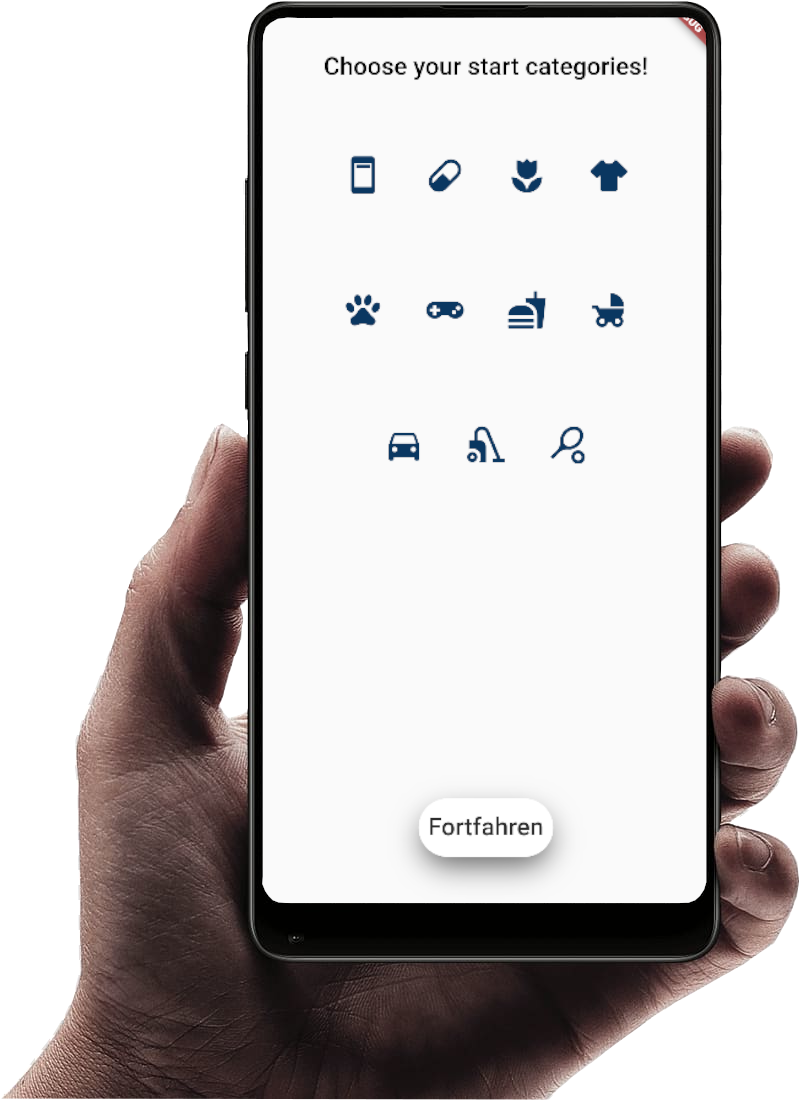
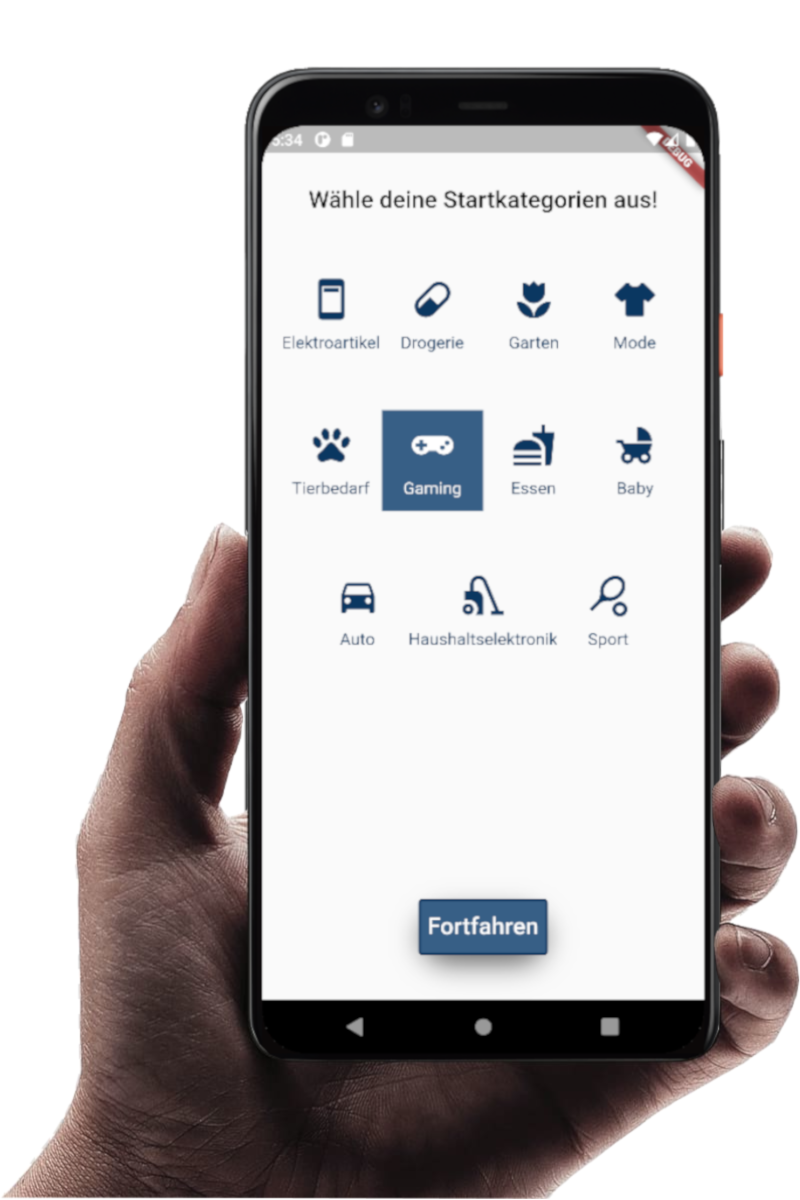
text added

diff --git a/content/ws21/bachelor/B5-penny-pincher/features.md b/content/ws21/bachelor/B5-penny-pincher/features.md
@@ -3,23 +3,81 @@ title = "Features"
 weight = 1
 +++
 
-
-## Welcome Screen
-{{<image src="WelcomeT.png" alt="Mockup" >}}
-## Live Feed
-{{<image src="LiveT.png" alt="Mockup" >}}
-## Browser Page
-{{<image src="BrowserT.png" alt="Mockup" >}}
-## Categories 
-{{<image src="filterT.png" alt="Mockup" >}}
-## Extended View
-{{<image src="ExtendedT.png" alt="Mockup" >}}
-## Favorites
-{{<image src="FavoritenT.png" alt="Mockup" >}}
-## Search
-{{<image src="SearchT.png" alt="Mockup" >}}
-## Settings
-{{<image src="SettingsT.png" alt="Mockup" >}}
+{{<section title="Welcome Screen">}}
+<img src="/ws21/bachelor/b5-penny-pincher/welcome.png" width="350px" style="float:left;padding:0 20px 20px 0">
+<br>
+<p style="font-size:18px;">
+With our App you will find the <b>best</b> bargains!
+To not be overwhelmed with all of our bargains, you can choose your <b>favorite starting categories</b> on our Welcome Screen when you open the app for the <b>first</b> time.
+After that you will be sent to the Live Feed.
+</p>
+{{</section>}}
 
 
+
+{{<section title="Live Feed">}}
+<img src="/ws21/bachelor/b5-penny-pincher/LiveFeed.png" width="350px" style="float:right;padding:0 20px 20px 0">
+<br>
+<p style="font-size:18px;">
+The Live Feed is the <b>main feature</b> of this app. Here you can choose one or more of the eleven main categories you're interested in and see "live" <b>the newest bargains</b> for these products. Our idea behind this page was to help people who are <b>searching for presents</b> and aren't sure exactly what they want. Or maybe you're just want to hunt bargains!
+if you know what you're looking for, you can switch to the Categories page.
+</p>
+{{</section>}}
+
+{{<section title="Categories">}}
+<img src="/ws21/bachelor/b5-penny-pincher/browser.png" width="350px" style="float:left;padding:0 20px 20px 0">
+<br>
+<p style="font-size:18px;">
+Are you still searching a birthay present? Then this is the right place for you!
+In the Categories you can <b>choose from all the categories and subcategories</b> that our App has to offer!
+This is especially helpful, when you know exactly what you're looking for.
+Once you find the perfect item, you <b>can buy it or add it to Favorites</b>!
+</p>
+{{</section>}}
+
+{{<section title="Filter">}}
+<img src="/ws21/bachelor/b5-penny-pincher/filter.png" width="350px" style="float:right;padding:0 20px 20px 0">
+<br>
+<p style="font-size:18px;">
+In the Categories you can set the <b>minimum</b> and <b>maximum price</b>, as well as the <b>minimum amount of discount</b> for your search.
+You can choose different categories and subcategories and you will be able to see <b>how many products</b> there are for your search in the bottom right corner, where you apply your filter.
+And if you wish, you can also <b>save your searches</b> in the bottom left corner for later use.
+</p>
+{{</section>}}
+
+{{<section title="Extended View">}}
+<img src="/ws21/bachelor/b5-penny-pincher/extended.png" width="350px" style="float:left;padding:0 20px 20px 0">
+<br>
+<p style="font-size:18px;">
+In the Extended View you can see <b>some details for the product</b> as well as <b>add them</b> to Favorites. When you click on "Zum Angebot" you will be <b>sent to the idealo</b> website. There you will see <b>all details</b> and <b>sellers</b> for this bargain.
+</p>
+{{</section>}}
+
+{{<section title="Favorites">}}
+<img src="/ws21/bachelor/b5-penny-pincher/Favoriten.png" width="350px" style="float:right;padding:0 20px 20px 0">
+<br>
+<p style="font-size:18px;">
+You can <b>save products</b> in Favorites, if you wish to check them out later.
+You can open the Extended View to see <b>more details</b> for the product, <b>remove products</b> from Favorites as well as <b>search through your Favorites</b> in case you are looking for a specific product!
+Some bargains have a time limit and Favorites are going to refresh themselves automatically, so <b>some products might disappear after a while</b>.
+</p>
+{{</section>}}
+
+{{<section title="Search bar">}}
+<img src="/ws21/bachelor/b5-penny-pincher/Search.png" width="350px" style="float:left;padding:0 20px 20px 0">
+<br>
+<p style="font-size:18px;">
+Once you have <b>chosen a category</b>, you can use the search bar to <b>find items</b> you're interested in, or search for specific keywords.. Your <b>latest search</b> will be <b>saved</b> for an easier access later on.
+It can be accessed from the Favorites and the Categories.
+The search bar in Favorites allows you to look <b>through your saved items</b> in case you have a lot of products there.
+</p>
+{{</section>}}
+
+{{<section title="Settings">}}
+<img src="/ws21/bachelor/b5-penny-pincher/settings.png" width="350px" style="float:right;padding:0 20px 20px 0">
+<br>
+<p style="font-size:18px;">
+In the setting screen you can switch <b>dark mode</b> on/off and even after restarting the app, the option that you choose will be saved. You can also <b>delete your search history</b> from the Search bar. In about us you can see the team members of this project and in help you can find answers to some <b>frequently asked questions</b>!
+</p>
+{{</section>}}
 

diff --git a/content/ws21/bachelor/B5-penny-pincher/tech-stack.md b/content/ws21/bachelor/B5-penny-pincher/tech-stack.md
@@ -6,12 +6,12 @@ weight = 3
 {{<section title="Tech Stack Com">}}
 
 #### Discord
-Discord: Discord was our main way of communicating with each other, asking questions and it served as our remote working space. We used voice channels to split into teams and work on different tasks and text channels to inform each other of new pull requests and general info around the project.
+Discord was our main way of communicating with each other, asking questions and it served as our remote working space. We used voice channels to split into teams and work on different tasks and text channels to inform each other of new pull requests and general info around the project.
 
 
 #### Miro
 We used Miro as a means of sharing our ideas, prototypes, discussing new tasks and updating our progress on the app, basically a place for us to brainstorm during our meetings.
-{{<image src="TechStackComTranparent.png" alt="tech stack part 1" caption="communication tech stack">}}
+
 {{</section>}}
 
 
@@ -25,8 +25,6 @@ Everyone chose an IDE that they were comfortable with, as they all offer integra
 #### GitHub
 GitHub is where we stored all tasks, issues and organized them in different sections: Backlog, To Do, and Done. Most of us dug deep for the first time in Git and we had difficulties concerning commiting, merging, branches, etc. however due to our dilligence we were able to pull through and learned how to organize a git project.
 
-
-{{<image src="TechStackDevTransparent.png" alt="tech stack part 2" caption="development tech stack">}}
 
 {{</section>}}
 

diff --git a/content/ws21/bachelor/B5-penny-pincher/_index.md b/content/ws21/bachelor/B5-penny-pincher/_index.md
@@ -17,11 +17,8 @@ supervisor = "Tino Nitze"
 
 {{<image src="overview.png" alt="Overview" >}}
 
-{{<mediathek id="cdb9d4bc8432e2ebca013c0ce410e240" >}}
-
-{{<quote source="https://developer.mozilla.org/en-US/docs/Web/HTML/Element/blockquote" caption="video">}}
-add video here
-{{</quote>}}
+{{<section title="here video">}}
+{{</section>}}
 
 {{<section title="Our Goal">}}
 The Penny Pincher team wants to make bargain hunting **great** again!
@@ -34,9 +31,9 @@ The Penny Pincher team is comprised of **motivated students** with different lev
 {{<gallery>}}
 {{<team-member image="dimitar.jpg" name="Dimitar">}}
 {{<team-member image="christian.jpg" name="Christian">}}
+{{<team-member image="magdalena.jpeg" name="Magdalena">}}
 {{<team-member image="marcel.jpg" name="Marcel">}}
 {{<team-member image="hiep.jpeg" name="Hiep">}}
-{{<team-member image="magdalena.jpeg" name="Magdalena">}}
 {{<team-member image="hermes.jpg" name="Hermes">}}
 {{<team-member image="hendrik.jpeg" name="Hendrik">}}
 {{<team-member image="paul.jpg" name="Paul">}}

diff --git a/content/ws21/bachelor/B5-penny-pincher/process.md b/content/ws21/bachelor/B5-penny-pincher/process.md
@@ -10,9 +10,7 @@ The **inital idea** was to create an app that allows users to find bargains **ea
 With the help of our supervisors Tino Nitze and Jakob Panten we were able to come up with the **top feature** of our app: the **Live Feed** - where you get new bargains **live**! Once we had our first meeting in the idealo headquarters, we were able to create our git project and had an unofficial Design Sprint. 
 {{</section>}}
 
-{{<image src="RouteViewCompilation2.png" alt="WalkViewMockups">}}
 
-{{<image src="HerbariumViewCompilation.png" alt="HerbariumViewMockups">}}
 
 {{<section title="Development">}}
 Once we agreed on a **design concept**, we decided to split into different **groups** to work on the different pages: live feed, browser, favorites and extended view. Since none of us had **previous experience** with Flutter, we had to briefly familiarize ourselves with the framework.

diff --git a/content/ws21/bachelor/B5-penny-pincher/future.md b/content/ws21/bachelor/B5-penny-pincher/future.md
@@ -17,4 +17,4 @@ For now our app is only available in German, and we would like to offer it in En
 Another cool feature would be to create custom categories such as "For her", "For him", "The perfect Christmas present", because we believe that a big part of our users might be looking for presents. This will make their search easier and save them time!
 
 
-_So get inspired and start your own stroll._
+_So, what are you waiting for? Go and find the perfect bargain!_
